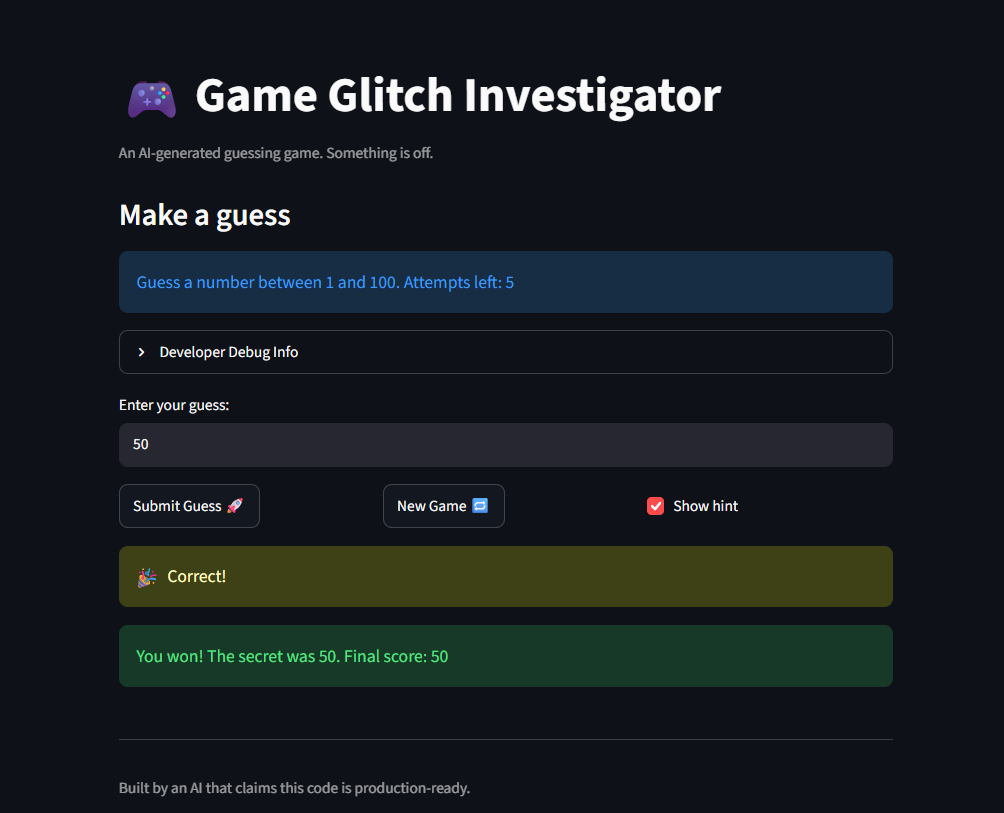
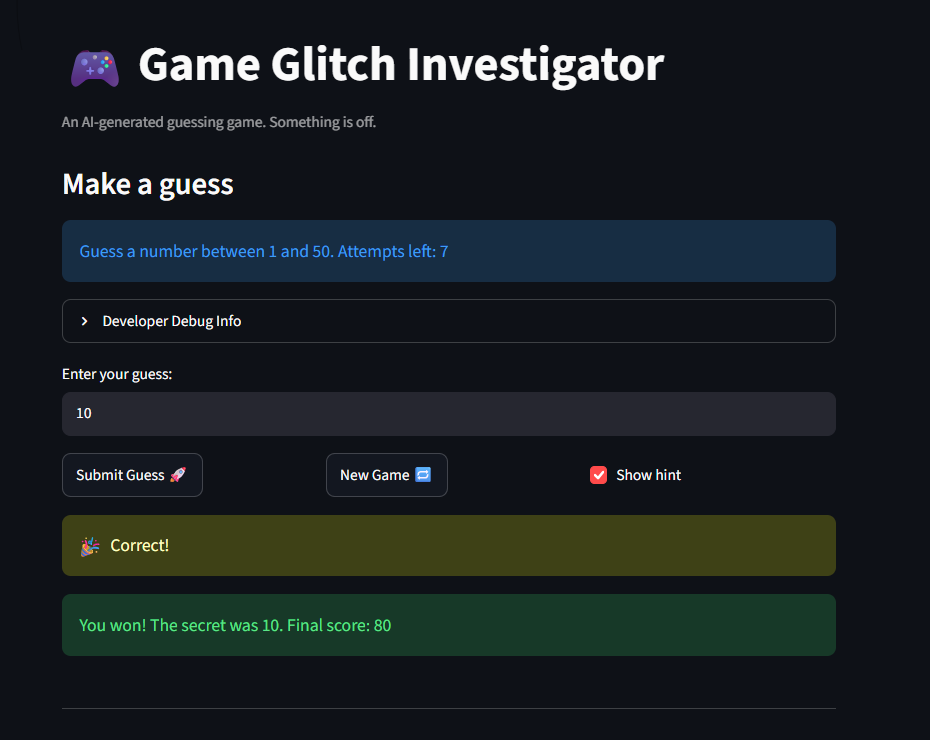
Updated README and reflection.md

Changed region(s): [[0.0624, 0.4973, 0.9043, 0.9014], [0.0624, 0.0622, 0.9043, 0.4662], [0.1247, 0.9635, 0.4677, 0.9946]]

diff --git a/README.md b/README.md
@@ -25,15 +25,20 @@ It wrote the code, ran away, and now the game is unplayable.
 
 ## 📝 Document Your Experience
 
-- [ ] Describe the game's purpose.
-- [ ] Detail which bugs you found.
-- [ ] Explain what fixes you applied.
+- [x] Describe the game's purpose - Guess a number game!
+- [x] Detail which bugs you found:
+  - Attempts allowed displayed in settings is not the same as the one in the game. I expected 8, see both 7 and 8 but in reality there.
+  - Developer Debug counter for attempts shows 1 attempt completed before even starting. It should say 0.
+  - Asks to guess number between 1 and 100, I guessed 0 and it said to go lower, guessed 30 said go lower, answer was 25. It should say "go higher" and "go lower" dependsing on if the number submitted is greater or less than the secret number.
+  - Clicking new game does not clean history or let me resubmit a guess. It should do that.
+  - Normal level should say to guess number 1-50, shows 1-100, while hard says 1-50 instead of 1-100.
+- [x] Explain what fixes you applied: Fixes to all of the above!
 
 ## 📸 Demo Walkthrough
 
 Describe your fixed game in numbered steps so a reader can follow along without watching a video:
 
-1. User enters the number 4
+1. User enters the number 4, they must guess number between 1-50 in normal mode
 2. Attempts left is reduced 1 number and game returns "Go LOWER!"
 3. User enters the number 2
 4. Attempts left is reduced 1 number and game returns "Go HIGHER!"

diff --git a/reflection.md b/reflection.md
@@ -10,10 +10,11 @@ Answer each question in 3 to 5 sentences. Be specific and honest about what actu
 - List at least two concrete bugs you noticed at the start  
   (for example: "the hints were backwards").
 
-  Attempts allowed displayed in settings is not the same as the one in the game. I expected 8, see both 7 and 8 but in reality there .
+  Attempts allowed displayed in settings is not the same as the one in the game. I expected 8, see both 7 and 8 but in reality there.
   Developer Debug counter for attempts shows 1 attempt completed before even starting. It should say 0.
   Asks to guess number between 1 and 100, I guessed 0 and it said to go lower, guessed 30 said go lower, answer was 25. It should say "go higher" and "go lower" dependsing on if the number submitted is greater or less than the secret number.
   Clicking new game does not clean history or let me resubmit a guess. It should do that.
+  Normal level should say to guess number 1-50, shows 1-100, while hard says 1-50 instead of 1-100.
 
 **Bug Reproduction Log**
 
